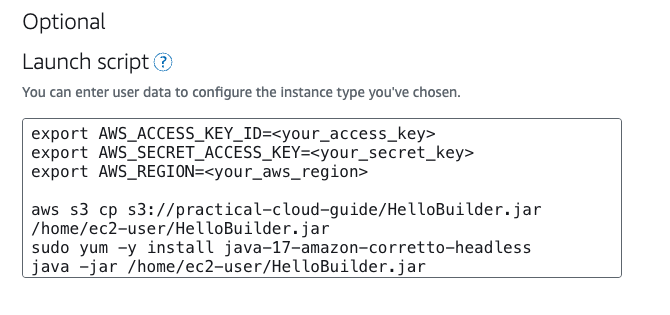
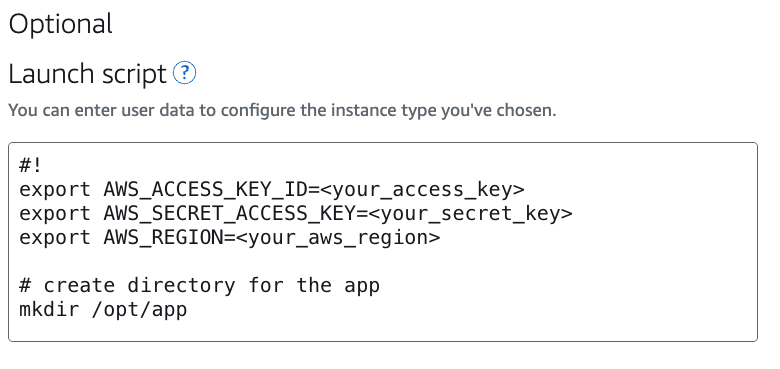
added instructions for deploying app with systemd

diff --git a/tutorials/practical-cloud-guide/deploy-a-java-application-on-linux/index.md b/tutorials/practical-cloud-guide/deploy-a-java-application-on-linux/index.md
@@ -86,15 +86,15 @@ Choose **Storage**.
 
 ![Choose Storage in the Lightsail menu](./images/lightsail-s3-bucket-1.png)
 
-In the **Create a new bucket** page choose the **5GB storage plan** and name the bucket with a unique name such as `my-practical-cloud-guide`. Please note that S3 bucket names are globally unique, so make sure to pick a name that is available. For the rest of this tutorial, when you see `my-practical-cloud-guide` for the S3 bucket name, please replace it with your bucket name. Select **Create Bucket**.
+In the **Create a new bucket** page choose the **5GB storage plan** and name the bucket with a unique name such as `my-practical-cloud-guide`. Please note that S3 bucket names are globally unique, so make sure to pick a name that is available. For the rest of this tutorial, when you see `<my>-practical-cloud-guide` for the S3 bucket name, please replace it with your bucket name. Select **Create Bucket**.
 
 ![Create an S3 bucket](./images/lightsail-s3-bucket-2.png)
 
-You will see a menu page for the `practical-cloud-guide` bucket, choose **Objects**.
+You will see a menu page for the `<my>-practical-cloud-guide` bucket, choose **Objects**.
 
 ![Open the Objects menu](./images/lightsail-s3-bucket-3.png)
 
-The **Object list** displays the objects in the bucket. Choose **Upload** to put the application and deployment file in the bucket.
+The **Object list** displays the objects in the bucket. Choose **Upload** to put the application and service file in the bucket.
 
 ![Upload files to S3](./images/lightsail-s3-bucket-4.png)
 
@@ -107,7 +107,11 @@ Select `HelloBuilder.jar` from the `./practical-cloud-guide-code/run-to-build
 
 ![Choose the HelloBuilder.jar](./images/lightsail-s3-bucket-linux-1.png)
 
-The file will be added to the **Object list**.
+Upload the `hellobuilder.service` file to your S3 bucket. This file congifures the application as a service and will restart the application after a reboot. Select the file and choose **Open**.
+
+![Choose the HelloBuilder.jar](./images/lightsail-s3-bucket-linux-1.1.png)
+
+The files will be added to the **Object list**.
 
 ![Files listed](./images/lightsail-s3-bucket-linux-2.png)
 
@@ -143,18 +147,56 @@ Choose **Add launch script**.
 
 ![Add a launch script](./images/lightsail-linux-vps-4.png)
 
-Configure an instance at launch by adding a shell script that runs when instance starts. The script exports your access key, secret key, and AWS region. These are temporary credentials only available at launch. The script needs your credentials to copy the SpringBoot application, HelloBuilder.jar, from your S3 bucket. Note that AWS CLI commands are available to use in the script. After the script copies the jar file, it installs Java and starts the application.
+Configure an instance at launch by adding a shell script that runs when instance starts. The script exports your access key, secret key, and AWS region. These are temporary credentials only available at launch. The script needs your credentials to copy the SpringBoot application, HelloBuilder.jar, from your S3 bucket. Note that AWS CLI commands are available to use in the script. After the script copies the jar file, it installs Java, configures the application as a service, and starts the application.
+
+To install the application as a service, use [systemd](https://systemd.io/), a Linux system and service manager. Use a service file to configure the service.
+
+```
+[Unit]
+Description=Manage Java service
+
+[Service]
+WorkingDirectory=/opt/app
+ExecStart=/bin/java -Xms128m -Xmx256m -jar HelloBuilder.jar
+User=appadmin
+Type=simple
+Restart=on-failure
+RestartSec=10
+
+[Install]
+WantedBy=multi-user.target
+```
 
 Copy the script add your credentials, AWS region, and the name of your S3 bucket.
 
 ```bash
+#!
 export AWS_ACCESS_KEY_ID=<your_access_key>
 export AWS_SECRET_ACCESS_KEY=<your_secret_key>
 export AWS_REGION=<your_aws_region>
 
-aws s3 cp s3://my-practical-cloud-guide/HelloBuilder.jar /home/ec2-user/HelloBuilder.jar
+# create directory for the app
+mkdir /opt/app
+
+# download application and system service file
+aws s3 cp s3://my-practical-cloud-guide/hellobuilder.service /etc/systemd/system/hellobuilder.service
+aws s3 cp s3://my-practical-cloud-guide/HelloBuilder.jar /opt/app/HelloBuilder.jar
+
+# install java
 sudo yum -y install java-17-amazon-corretto-headless
-java -jar /home/ec2-user/HelloBuilder.jar
+
+# add application admin group and user
+sudo groupadd -r appgrp
+sudo useradd -r -s /bin/false -g appgrp appadmin
+
+sudo chown -R appgrp:appadmin /opt/app
+
+# load the service file and start the service
+sudo systemctl daemon-reload
+sudo systemctl start hellobuilder.service
+
+# restart service on boot
+sudo systemctl enable hellobuilder
 ```
 
 ![Copy code to launch script window](./images/lightsail-linux-vps-5.png)
